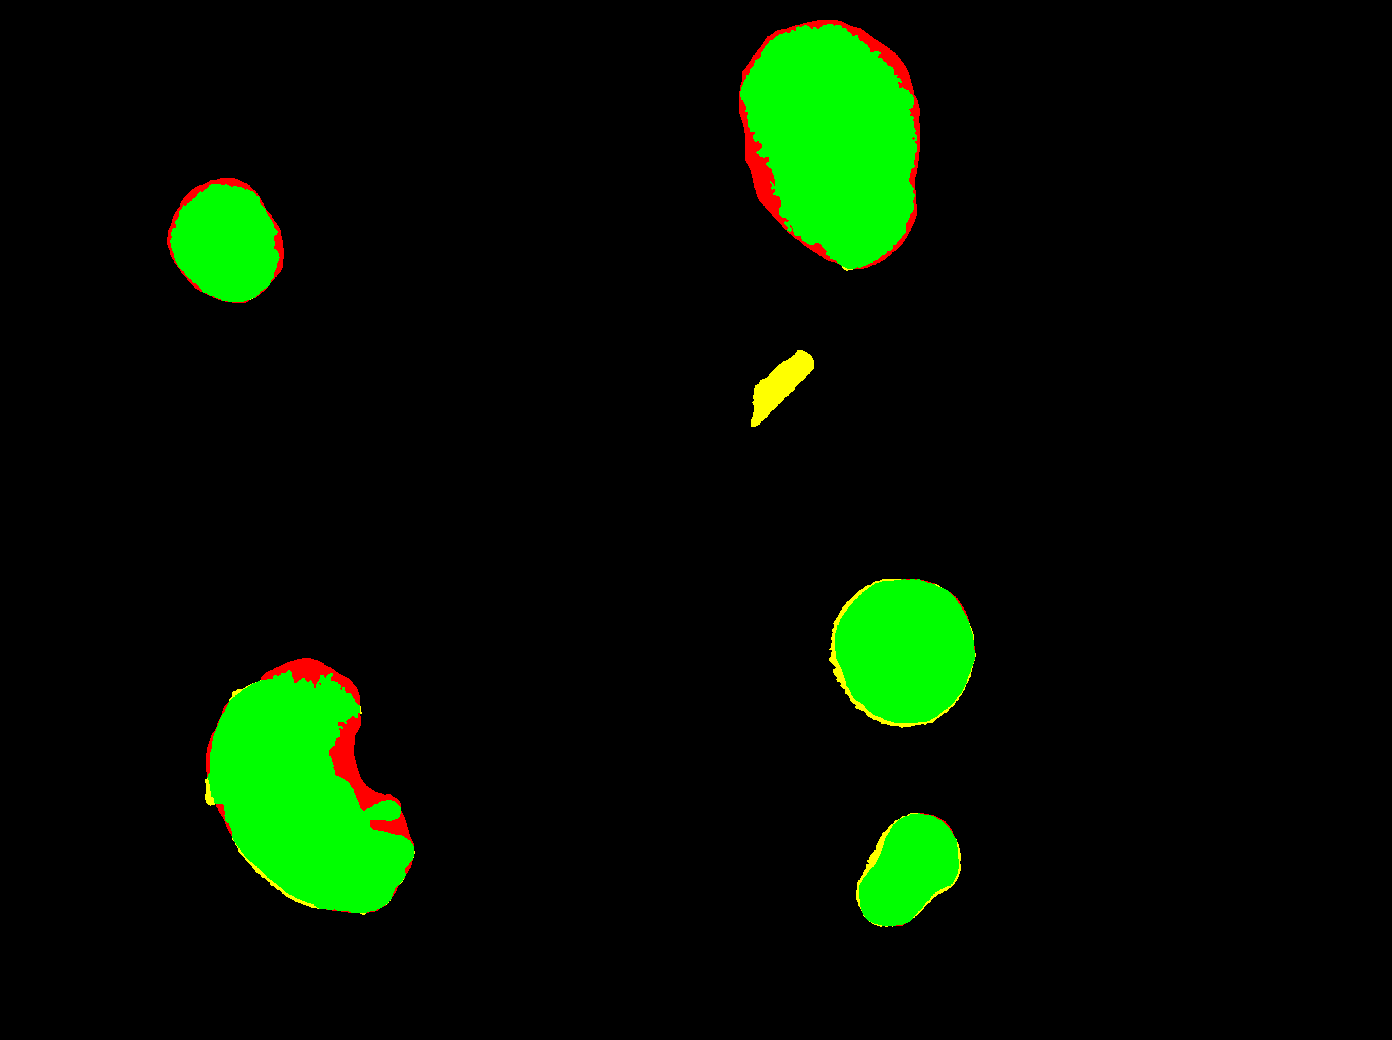
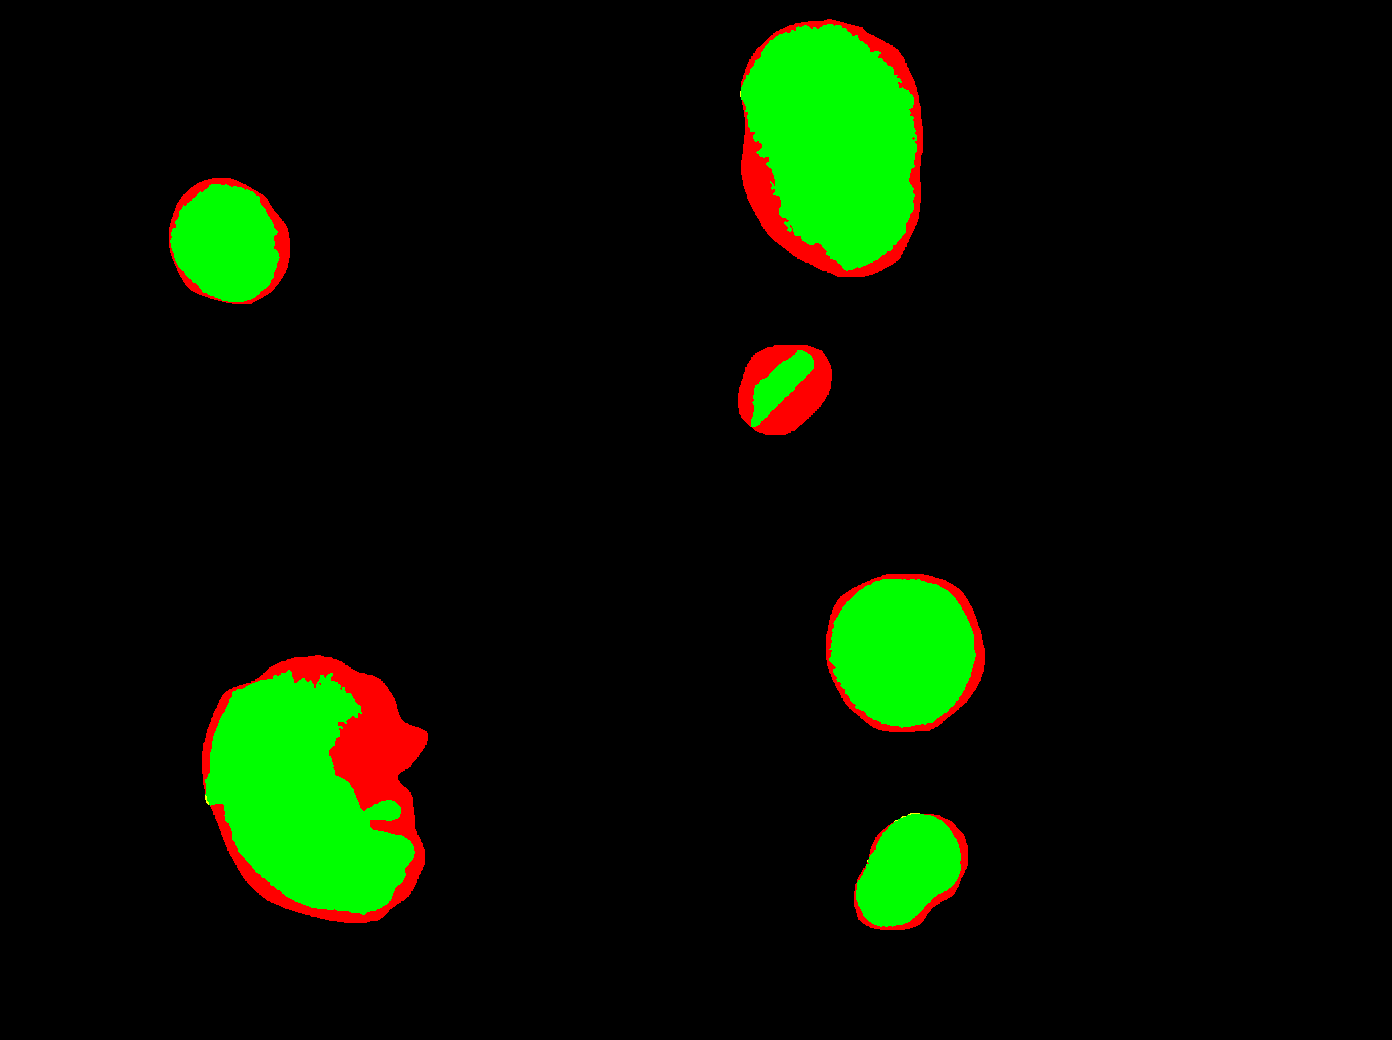
add all pictures

diff --git a/evaltuation_many_images.py b/evaltuation_many_images.py
@@ -60,7 +60,7 @@ def run_threshold_comparison(image, manual_mask, rgb_path, output_dir, global_re
     return results
 
 def main():
-    image_names = ["1", "2", "3", "4", "5"]
+    image_names = ["1", "2", "3", "4", "5", "6"]
     zellstats_all = []
     global_results = []
 
